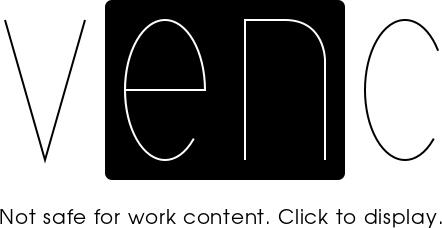
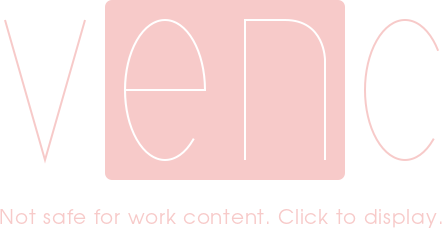
add default include files in theme deps, update gentle theme accordingly

diff --git a/src/share/themes/gentle/assets/style.css b/src/share/themes/gentle/assets/style.css
@@ -26,6 +26,10 @@ h1
 math
     {display:block;}
 
+/**************/
+/* VENC BOXES */
+/**************/
+
 .venc_info_box, .venc_warning_box  {
     background-color: #91A8D0;
     color: white;
@@ -45,6 +49,24 @@ math
     background-color: #F7CAC9;
 }
 
+/********/
+/* NSFW */
+/********/
+
+.venc_nsfw
+    {min-width: 442px;
+    min-height: 228px;
+    display: block;
+    background-repeat: no-repeat;
+    margin: auto;
+    background-position: center center;}
+    
+.venc_nsfw .venc_nsfw_content
+	{display: none;}
+
+.venc_nsfw:target .venc_nsfw_content
+	{display: block;}
+    
 /***************/
 /* H E A D E R */
 /***************/

diff --git a/src/share/themes_includes/nsfw.html b/src/share/themes_includes/nsfw.html
@@ -1,0 +1,2 @@
+<a href="#venc_nsfw{venc_arg_1}" id="venc_nsfw{venc_arg_1}" class="venc_nsfw" style="background-image: url('.:GetRelativeOrigin:..:GetBlogMetadataIfExists::nsfw_image::{value}:.');"><div class="venc_nsfw_content">{venc_arg_2}</div>
+</a>

diff --git a/src/venc2/patterns/non_contextual.py b/src/venc2/patterns/non_contextual.py
@@ -29,6 +29,12 @@ from venc2.helpers import GenericMessage
 from venc2.prompt import notify
 from urllib.parse import urlparse
 
+theme_includes_dependencies = []
+
+class MissingKeyDict(dict):
+    def __missing__(self, key): 
+        return key.join("{}")
+
 def try_oembed(providers, url):
     try:
         key = [ key for key in providers["oembed"].keys() if url.netloc in key][0]
@@ -89,21 +95,12 @@ def set_style(argv):
     CLASS = "class=\""+CLASS+"\"" if CLASS != '' else ''
     return "<span "+ID+' '+CLASS+">"+('::'.join(argv[2:]))+"</span>"
 
+
+""" Must fix dirty try/except structure. """
 def include_file(argv):
     try:
         filename = argv[0]
         include_string = open("includes/"+filename, 'r').read()
-
-        if len(argv) > 1:
-            args = {}
-            index = 1
-            for arg in argv[1:]:
-                args["venc_arg_"+str(index)] = arg.strip()
-                index +=1
-            return include_string.format(**args)
-            
-        else: 
-            return include_string
             
     except IndexError:
         raise PatternMissingArguments()
@@ -112,8 +109,26 @@ def include_file(argv):
         raise PatternInvalidArgument("path", filename, messages.wrong_permissions.format(argv[0]))
     
     except FileNotFoundError:
-        raise PatternInvalidArgument("path", filename, messages.file_not_found.format(filename))
-
+        try:
+            include_string = open(os.path.expanduser("~/.local/share/VenC/themes_includes/"+filename), 'r').read()
+            
+        except FileNotFoundError:
+            raise PatternInvalidArgument("path", filename, messages.file_not_found.format(filename))
+            
+        except PermissionError:
+            raise PatternInvalidArgument("path", filename, messages.wrong_permissions.format(argv[0]))
+                
+    if len(argv) > 1:
+        args = MissingKeyDict({})
+        index = 1
+        for arg in argv[1:]:
+            args["venc_arg_"+str(index)] = arg.strip()
+            index +=1
+                
+        return include_string.format_map(args)
+            
+    else: 
+        return include_string
 def table(argv):
     output = "<table class=\"__VENC_TABLE__\">"
     tr = [[]]

diff --git a/src/venc2/commands/export.py b/src/venc2/commands/export.py
@@ -30,6 +30,7 @@ from venc2.helpers import die
 from venc2.prompt import notify
 from venc2.helpers import rm_tree_error_handler 
 from venc2.l10n import messages
+from venc2.patterns.non_contextual import theme_includes_dependencies
 from venc2.patterns.code_highlight import CodeHighlight
 from venc2.patterns.exceptions import MalformedPatterns
 from venc2.patterns.patterns_map import PatternsMap
@@ -41,7 +42,7 @@ start_timestamp = time.time()
 datastore = DataStore()
 code_highlight = CodeHighlight(datastore.blog_configuration["code_highlight_css_override"])
 
-theme_dependencies = []
+theme_assets_dependencies = []
 
 def copy_recursively(src, dest):
     import errno
@@ -83,9 +84,15 @@ def init_theme(argv):
             for param in config["override"].keys():
                 datastore.blog_configuration[param] = config["override"][param]
     
-        if "dependencies" in config.keys() and type(config["dependencies"]) == list:
-            global theme_dependencies
-            theme_dependencies = config["dependencies"]
+        if "assets_dependencies" in config.keys() and type(config["assets_dependencies"]) == list:
+            global theme_assets_dependencies
+            theme_assets_dependencies = config["assets_dependencies"]
+            
+        if "includes_dependencies" in config.keys() and type(config["includes_dependencies"]) == list:
+            global theme_includes_dependencies
+            append = theme_includes_dependencies.append
+            for include_file in config["includes_dependencies"]:
+                append(include_file)
                 
     try:
         return Theme(theme_folder), theme_folder
@@ -187,7 +194,7 @@ def export_blog(argv=list()):
     code_highlight.export_style_sheets()
     copy_recursively("extra/","blog/")
     copy_recursively(theme_folder+"assets/","blog/")
-    for depenpency in theme_dependencies:
+    for depenpency in theme_assets_dependencies:
         shutil.copyfile(os.path.expanduser("~")+"/.local/share/VenC/themes_assets/"+depenpency, "blog/"+depenpency)
     notify(messages.task_done_in_n_seconds.format(round(time.time() - start_timestamp,6)))
 

diff --git a/src/setup.py b/src/setup.py
@@ -44,6 +44,7 @@ for theme in themes:
         
 extra_files.append((expanduser('~')+"/.local/share/VenC/embed_providers/",  ["share/embed_providers/oembed.json"]))
 extra_files.append((expanduser('~')+"/.local/share/VenC/themes_assets",    ["share/themes_assets/"+filename for filename in listdir("share/themes_assets")]) )
+extra_files.append((expanduser('~')+"/.local/share/VenC/themes_includes",    ["share/themes_includes/"+filename for filename in listdir("share/themes_includes")]) )
 
 setup(
     name='VenC',

diff --git a/changelog.md b/changelog.md
@@ -159,7 +159,7 @@ cd # version 1.0.0 Last minute edition :p
     DONE | Fix Shabang issue for compatibility.
     DONE | Semantic-web features.
     DONE | Theme must have it's own yaml configuration.
-    DONE | Reorganize themes dependencies in setup.
+    WIP  | Reorganize themes dependencies in setup.
     DONE | Fix pattern processing within included file.
     TODO | Fix Tessellation CSS
     WIP  | Add relevant templates for themes.
